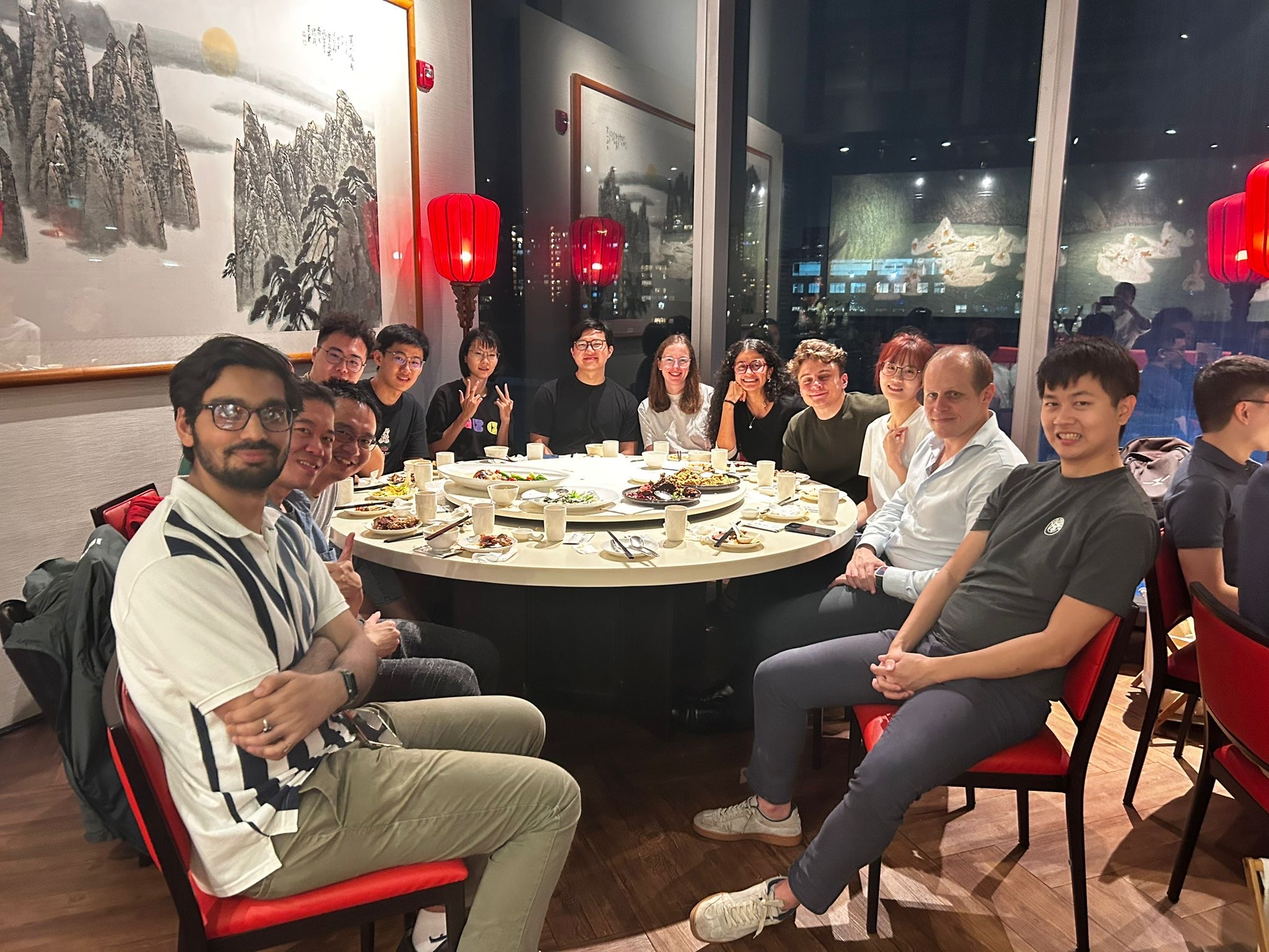
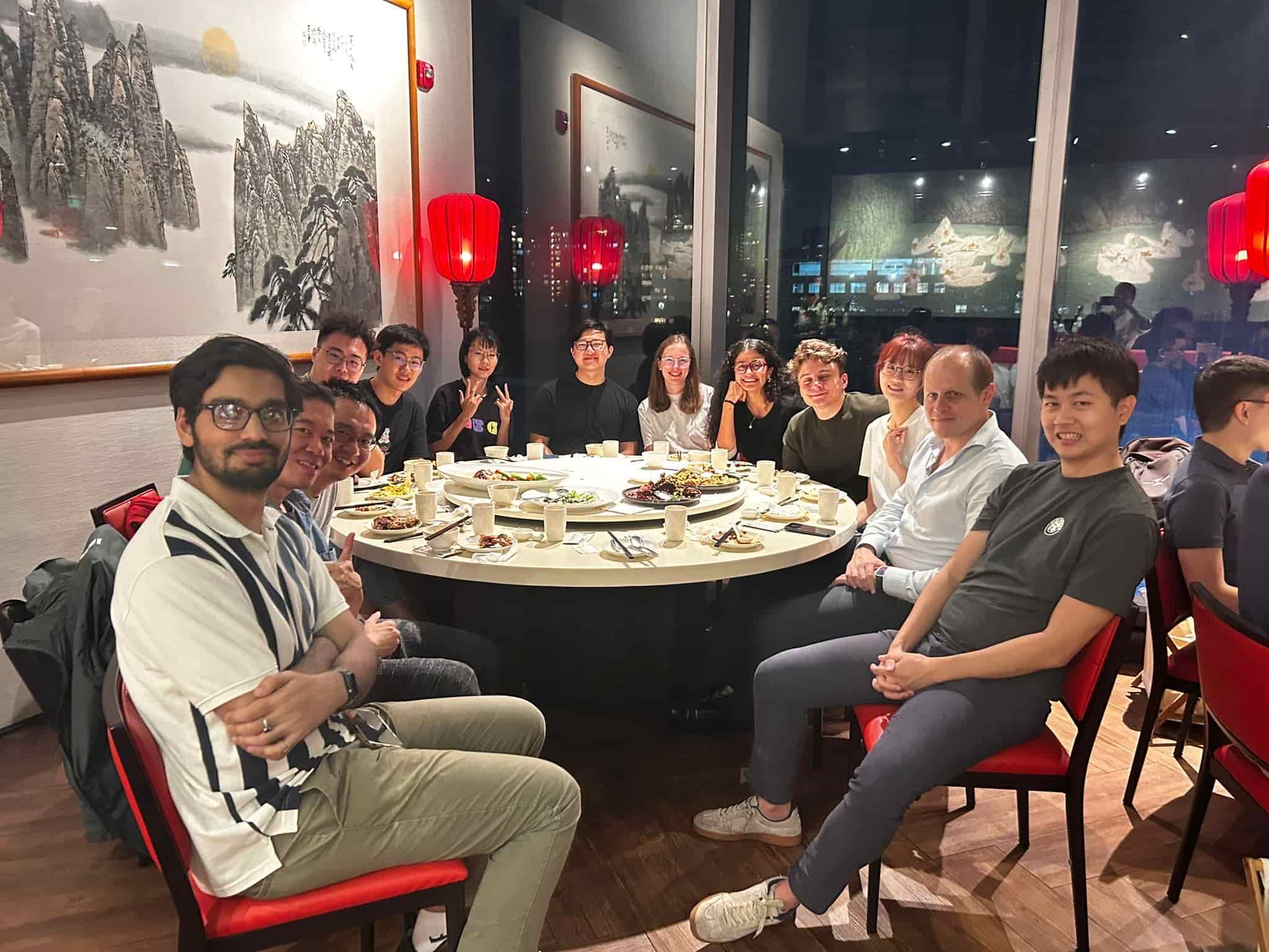
compressing images for faster loading

diff --git a/content/people/index.md b/content/people/index.md
@@ -2,8 +2,8 @@
 title: "People"
 description: "Meet our team"
 layout: "people"
-featured_image: "/images/people/group_1.png"
-featured_image_2: "/images/people/group_2.png"
+featured_image: "/images/people/group_1.jpg"
+featured_image_2: "/images/people/group_2.jpg"
 featured_image_class: "cover bg-center"
 menu:
   main:
@@ -29,7 +29,7 @@ sections:
     people:
     - name: "Luwei XIAO"
       role: "Research Fellow"
-      image: "/images/people/New/Louis.png"
+      image: "/images/people/compressed/Louis.jpg"
       links:
         email: "luwei.xiao@nus.edu.sg"
         linkedin: "https://www.linkedin.com/in/louis-shaw-5867512ab/"
@@ -39,7 +39,7 @@ sections:
       bio: "Luwei Xiao, Ph.D. is a Research Fellow at the National University of Singapore. He obtained his Ph.D. from East China Normal University, where his research focused on AI for Climate, Multimodal Learning, Affective Computing, and LLMs. Dr. Xiao has published over ten papers in leading international journals and conferences, including two ESI Highly Cited Papers. He led the Excellent Doctoral Student Academic Innovation Project at ECNU and has contributed to several major research initiatives, including the NSFC Young Scientist Fund, Shanghai Science and Technology Commission projects, and collaborations with Huawei Noah's Ark Lab."
     - name: "Xin Wang"
       role: "Research Fellow"
-      image: "/images/people/New/Tsin.png"
+      image: "/images/people/compressed/Tsin.jpg"
       links:
         email: "xin.w24@nus.edu.sg"
         linkedin: "https://www.linkedin.com/in/xin-wang-a7959b232/"
@@ -53,7 +53,7 @@ sections:
     people:
     - name: "Bayan ABUSALAMEH"
       role: "PhD Student"
-      image: "/images/people/New/Bayan.png"
+      image: "/images/people/compressed/Bayan.jpg"
       links:
         email: "e1320766@u.nus.edu"
         linkedin: "https://www.linkedin.com/in/bayan-abusalameh-48b0951b8/"
@@ -64,7 +64,7 @@ sections:
     
     - name: "Chenyu DONG"
       role: "PhD Student"
-      image: "/images/people/New/Chenyu.png"
+      image: "/images/people/compressed/Chenyu.jpg"
       links:
         email: "chenyu.dong@u.nus.edu"
         linkedin: "https://www.linkedin.com/in/chenyu-dong-ba52a8250/"
@@ -75,7 +75,7 @@ sections:
 
     - name: "Emma ANDREWS"
       role: "PhD Student"
-      image: "/images/people/New/Emma.png"
+      image: "/images/people/compressed/Emma.jpg"
       links:
         email: "emma_andrews@u.nus.edu"
         linkedin: "https://www.linkedin.com/in/emma-a-905921148/"
@@ -86,7 +86,7 @@ sections:
 
     - name: "Ethan ZHAN"
       role: "PhD Student"
-      image: "/images/people/New/Ethan.png"
+      image: "/images/people/compressed/Ethan.jpg"
       links:
         email: "ethan.zhan@u.nus.edu"
         linkedin: "https://www.linkedin.com/in/ethan-zhan/"
@@ -96,7 +96,7 @@ sections:
 
     - name: "Jiawen WEI"
       role: "PhD Student"
-      image: "/images/people/New/Jiawen.png"
+      image: "/images/people/compressed/Jiawen.jpg"
       links:
         email: "jiawenw@u.nus.edu"
         linkedin: "https://www.linkedin.com/in/jiawen-wei-363197200/"
@@ -107,7 +107,7 @@ sections:
 
     - name: "Keane ONG"
       role: "PhD Student"
-      image: "/images/people/New/Keane.png"
+      image: "/images/people/compressed/Keane.jpg"
       links:
         email: "keane.ongweiyang@u.nus.edu"
         linkedin: "https://www.linkedin.com/in/kowy/"
@@ -118,7 +118,7 @@ sections:
 
     - name: "Leonardo PESCE"
       role: "PhD Student"
-      image: "/images/people/New/Leo.png"
+      image: "/images/people/compressed/Leo.jpg"
       links:
         email: "leonardo_pesce@u.nus.edu"
         linkedin: "https://www.linkedin.com/in/leonardopesce00/"
@@ -134,7 +134,7 @@ sections:
 
     - name: "Yuchen SUN"
       role: "PhD Student"
-      image: "/images/people/New/Yuchen.png"
+      image: "/images/people/compressed/Yuchen.jpeg"
       links:
         email: "sun.yuchen22@u.nus.edu"
         linkedin: "https://www.linkedin.com/in/yuchen-sun-78b144384/"
@@ -143,7 +143,7 @@ sections:
 
     - name: "Yuxuan YANG"
       role: "PhD Student"
-      image: "/images/people/New/Yuxuan.png"
+      image: "/images/people/compressed/Yuxuan.jpg"
       links:
         email: "y.yang.65@u.nus.edu"
         linkedin: "https://www.linkedin.com/in/yuxuan-yang-77108024b/"
@@ -153,7 +153,7 @@ sections:
 
     - name: "Zhou FANG"
       role: "PhD Student"
-      image: "/images/people/New/Zhou.png"
+      image: "/images/people/compressed/Zhou.jpg"
       links:
         email: "zhou.fang@u.nus.edu"
         linkedin: "https://www.linkedin.com/in/zhou-fang-4aaa2a21b/"

diff --git a/content/gallery/index.md b/content/gallery/index.md
@@ -2,18 +2,18 @@
 title: "Gallery"
 description: "A glimpse into life at MathEXLab"
 layout: "gallery"
-featured_image: "/images/Gallery/1.png"
-featured_image_2: "/images/Gallery/2.png"
-featured_image_3: "/images/Gallery/3.png"
-featured_image_4: "/images/Gallery/4.png"
+featured_image: "/images/Gallery/1.jpg"
+featured_image_2: "/images/Gallery/2.jpg"
+featured_image_3: "/images/Gallery/3.jpg"
+featured_image_4: "/images/Gallery/4.jpg"
 featured_image_5: "/images/Gallery/5.JPG"
 featured_image_6: "/images/Gallery/6.JPG"
-featured_image_7: "/images/Gallery/7.png"
-featured_image_8: "/images/Gallery/8.png"
-featured_image_9: "/images/Gallery/9.png"
-featured_image_10: "/images/Gallery/10.png"
+featured_image_7: "/images/Gallery/7.jpg"
+featured_image_8: "/images/Gallery/8.jpg"
+featured_image_9: "/images/Gallery/9.jpg"
+featured_image_10: "/images/Gallery/10.jpg"
 featured_image_11: "/images/Gallery/11.JPG"
-featured_image_12: "/images/Gallery/12.png"
+featured_image_12: "/images/Gallery/12.jpg"
 featured_image_class: "cover bg-center"
 menu:
   main:
@@ -22,16 +22,16 @@ menu:
 intro: "This gallery is meant to give you a glimpse of the interdisciplinary work we do and the activities we take part in. We are a diverse group from different scientific and cultural backgrounds, and the gallery captures some of our meetings, conference participations, and even group dinners."
 
 gallery_images:
-  - src: "/images/Gallery/1.png"
-  - src: "/images/Gallery/2.png"
-  - src: "/images/Gallery/3.png"
-  - src: "/images/Gallery/4.png"
+  - src: "/images/Gallery/1.jpg"
+  - src: "/images/Gallery/2.jpg"
+  - src: "/images/Gallery/3.jpg"
+  - src: "/images/Gallery/4.jpg"
   - src: "/images/Gallery/5.JPG"
   - src: "/images/Gallery/6.JPG"
-  - src: "/images/Gallery/7.png"
-  - src: "/images/Gallery/8.png"
-  - src: "/images/Gallery/9.png"
-  - src: "/images/Gallery/10.png" 
+  - src: "/images/Gallery/7.jpg"
+  - src: "/images/Gallery/8.jpg"
+  - src: "/images/Gallery/9.jpg"
+  - src: "/images/Gallery/10.jpg" 
   - src: "/images/Gallery/11.JPG"
-  - src: "/images/Gallery/12.png"
+  - src: "/images/Gallery/12.jpg"
 ---

diff --git a/content/seminars/index.md b/content/seminars/index.md
@@ -1,9 +1,9 @@
 ---
 title: "Seminars"
 description: "MathEXLab organised seminars"
-featured_image: "/images/seminars/1.png"
-featured_image_2: "/images/seminars/2.png"
-featured_image_3: "/images/seminars/3.png"
+featured_image: "/images/seminars/1.jpg"
+featured_image_2: "/images/seminars/2.jpg"
+featured_image_3: "/images/seminars/3.jpg"
 
 layout: "seminars"
 menu:
